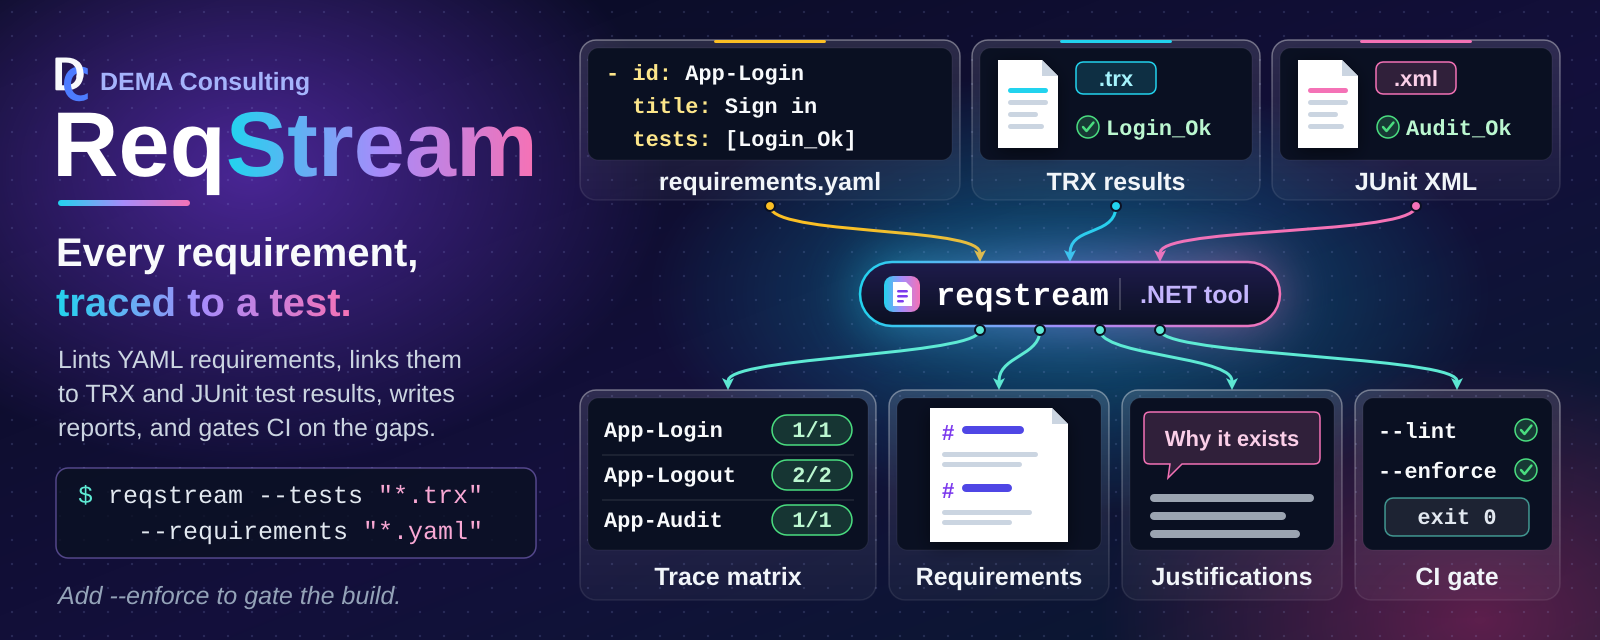
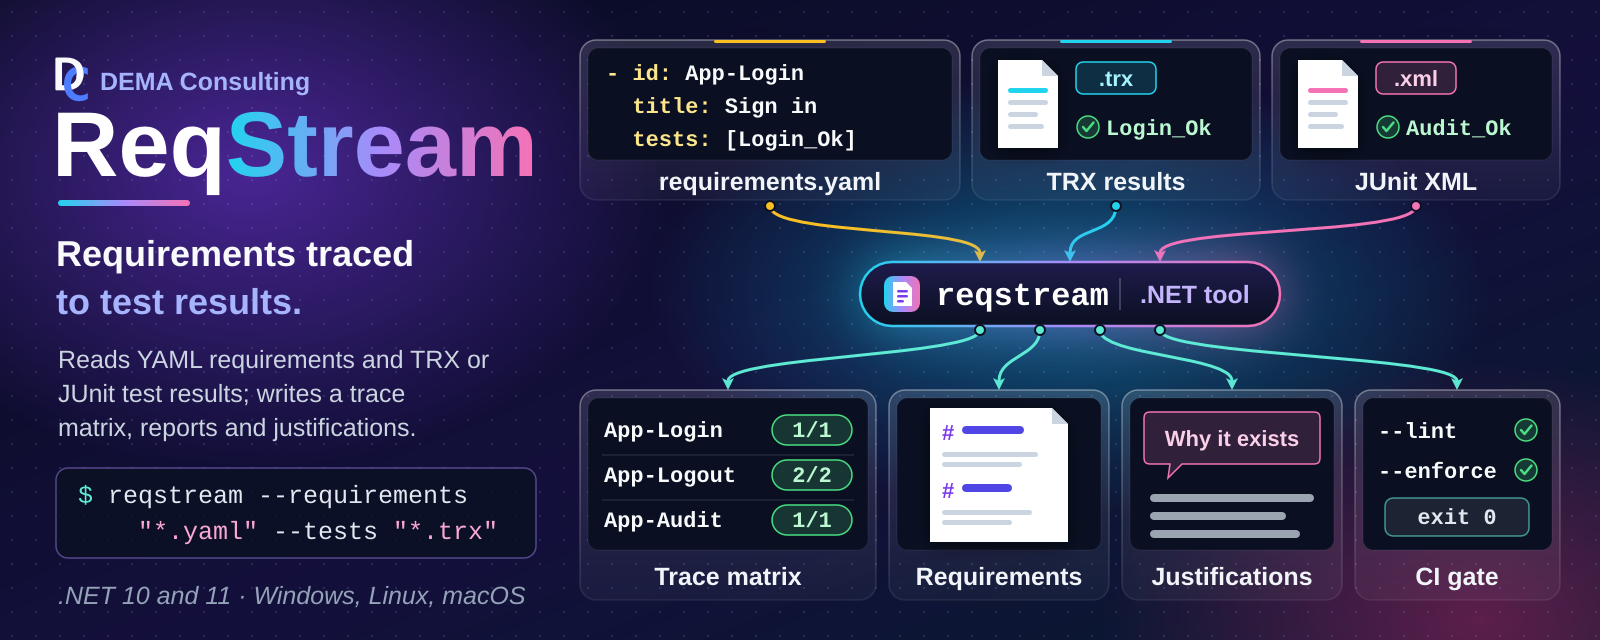
Sync agents/template and calm the README hero (#246)
* Sync shared agents, skills, and standards from Agents main

Brings in docdown skill wording (#60), orchestrator Pull Requests section and
planning Feasibility and Delivery step (#62), SysML2 one-package-per-file rule (#64),
and the AGENTS.md Project Scripts section (#62).

* Sync template: yamlfix comment handling and script CUSTOMIZATION headers

- .yamlfix.toml: comments_require_starting_space = false (template #61)
- build.ps1, lint.ps1, fix.ps1: CUSTOMIZATION header replaces the old
  MODIFICATION POLICY text (template #63); script behavior unchanged

* Calm the README hero and make it the H1

Plain tagline 'Requirements traced / to test results.' (solid colors, no
gradient), factual body, a real command, and a platform footnote; the hero
image is now the README H1 with the badges directly under it (template #66).

* Record the legacy SysML2 package layout as a standards exception

---------

diff --git a/.github/standards/sysml2-modeling.md b/.github/standards/sysml2-modeling.md
@@ -31,15 +31,15 @@ docs/sysml2/
 ├── common/
 │   └── software-items.sysml           # shared SoftwareItemMetadata::SoftwareInfo metadata def
 ├── model/
-│   ├── {system-name}.sysml            # system-level part def only (no subsystems/units inline)
+│   ├── {system-name}.sysml            # package {SystemName}; system-level part def only (no subsystems/units inline)
 │   ├── {system-name}/
-│   │   ├── {subsystem-name}.sysml     # subsystem part def; nests further for sub-subsystems
+│   │   ├── {subsystem-name}.sysml     # package {SystemName}_{SubsystemName}Subsystem; nests further for sub-subsystems
 │   │   └── {subsystem-name}/
-│   │       └── {unit-name}.sysml      # one file per unit
-│   ├── ots.sysml                      # OTS dependency parts (optional; if OTS items exist)
-│   └── shared.sysml                   # Shared Package parts (optional; if Shared Packages exist)
+│   │       └── {unit-name}.sysml      # package {SystemName}_{UnitName}; one file per unit
+│   ├── ots.sysml                      # package OtsDependencies: OTS parts (optional; if OTS items exist)
+│   └── shared.sysml                   # package SharedPackages: Shared Package parts (optional; if Shared Packages exist)
 └── views/
-    └── design-views.sysml             # named view usages rendered for the design document
+    └── design-views.sysml             # package {RepoName}DesignViews; named view usages rendered for the design document
 ```
 
 `docs/sysml2/common/software-items.sysml` defines the `SoftwareItemMetadata::SoftwareInfo`
@@ -62,14 +62,42 @@ so no single alias name would generalize. Agents discover the system(s) present 
 `docs/sysml2/**/*.sysml`, not by assuming a fixed name.
 
 Always pass the full set of `.sysml` files (or an equivalent glob) to every `sysml2tools`
-invocation — the model spans multiple files and cross-references between them; files sharing
-the same `package Name { ... }` merge into one namespace automatically with no `import`
-required, as long as all files are passed together. As of `sysml2tools` 0.1.0-beta.5,
+invocation — the model spans multiple files and cross-references between them, and a
+reference only resolves when the file declaring its target is loaded (see Package Structure
+below for how files reference each other). As of `sysml2tools` 0.1.0-beta.5,
 `lint` and `render` both expand `*`/`**` glob patterns internally (recursing correctly into
 subdirectories), so pass a single **quoted** glob string (e.g. `'docs/sysml2/**/*.sysml'`)
 and let the tool resolve it — do not rely on the shell to expand it, and do not quote-strip
 the pattern before it reaches the tool. Quoting keeps the behavior identical across
 PowerShell and bash, since neither shell needs to (or reliably does) expand `**` itself.
+
+## Package Structure
+
+SysML v2 has no package merging: each file is its own root namespace, and two root packages
+with the same name are duplicate members of the global namespace (the OMG Pilot
+Implementation reports "Duplicate of other owned member name" for each, and references across
+the halves do not resolve). A model that only loads because a tool is lenient is not portable,
+so:
+
+- Each `.sysml` file declares **exactly one uniquely named package**, and a package is never
+  declared (or "reopened") in more than one file.
+- Name each package from its place in the hierarchy, joined with an underscore:
+  `{SystemName}` for the system file, `{SystemName}_{SubsystemName}Subsystem` for a subsystem
+  (including a nested sub-subsystem, which is not prefixed with its parent subsystem), and
+  `{SystemName}_{UnitName}` for a unit. The system prefix keeps names unique across systems.
+  The shared files use `OtsDependencies` and `SharedPackages`, and the single views file uses
+  one repository-level package, `{RepoName}DesignViews` (not one per system).
+- Package names must be unique **repository-wide**. The short forms above are the default;
+  when one would collide (two `Storage` subsystems in different branches, or two units named
+  `Cache` in different subsystems), qualify it with the owning subsystem path, for example
+  `{SystemName}_{SubsystemName}_{UnitName}` (`Acme_Ingest_Cache` and `Acme_Query_Cache`).
+- Reference other files with an explicit `private import {PackageName}::*;` (a system or
+  subsystem file imports the package of each direct member so its `part` usages resolve; every
+  file that applies `SoftwareInfo` imports `SoftwareItemMetadata::*`).
+- Where an import would form a cycle (for example a unit that depends on a package that
+  already imports it), or for a one-off reference into another system, use the qualified name
+  instead, e.g. `dependency {UnitName} to {SystemName}_{OtherUnit}::{OtherUnit};`.
+  Import cycles raise a lint warning; qualified references do not.
 
 ## Model Content
 
@@ -174,11 +202,13 @@ Views control what gets rendered into diagrams for the design document. Use name
 **usages** (not `view def` **definitions**) — `expose` is only valid inside a usage:
 
 ```sysml
-package {SystemName} {
+package {RepoName}DesignViews {
     private import StandardViewDefinitions::*;
+    private import {SystemName}::*;
+    private import {SystemName}_{SubsystemName}Subsystem::*;
 
     view SoftwareStructureView : InterconnectionView {
-        expose {SystemName}::**;     // all members, recursively: system + subsystems + units
+        expose {SystemName}::{SystemName}System::**;  // system part def, recursively: subsystems + units
     }
 
     view {SystemName}View {
@@ -186,10 +216,12 @@ package {SystemName} {
     }
 
     view {SubsystemName}View {
-        expose {SubsystemName};      // one subsystem def only
+        expose {SubsystemName}Subsystem;      // one subsystem def only
     }
 }
 ```
+
+Views import (or qualify) every package whose members they expose, like any other file.
 
 Type `SoftwareStructureView` by a standard view definition from the SysML v2 Views library
 (`GeneralView`, `InterconnectionView`, ...; requires `sysml2tools` 0.3.0-beta.3+). The view
@@ -223,25 +255,27 @@ There is no dedicated `DependencyView`/`{SubsystemName}DependencyView` diagram c
 above), not rendered.
 
 When a repository has multiple systems, type `SoftwareStructureView` by `GeneralView`,
-expose each system package's members, and filter out documentation so the overview stays
-readable — the general view draws one package frame per system, while an interconnection
-view places all systems in a single row:
+expose each system's part def (and each subsystem's, by qualified name), and filter out
+documentation so the overview stays readable — the general view draws one package frame per
+system, while an interconnection view places all systems in a single row:
 
 ```sysml
 package {RepoName}DesignViews {
     private import StandardViewDefinitions::*;
 
     view SoftwareStructureView : GeneralView {
-        expose {SystemNameA}::**;
-        expose {SystemNameB}::**;
-        filter not @SysML::Documentation;
+        expose {SystemNameA}::{SystemNameA}System;
+        expose {SystemNameA}_{SubsystemName}Subsystem::{SubsystemName}Subsystem;
+        expose {SystemNameB}::{SystemNameB}System;
+        filter not (@SysML::Documentation);
     }
 }
 ```
 
 Documentation (`doc`) is exposed with its owner and drawn as a `doc` compartment unless a
-view filters it out; use `filter not @SysML::Documentation;` wherever doc text would clutter
-a diagram.
+view filters it out; use `filter not (@SysML::Documentation);` wherever doc text would clutter
+a diagram. The parentheses are required: the SysML v2 grammar does not accept the unparenthesized
+`filter not @SysML::Documentation;`.
 
 ## Diagram Embedding
 
@@ -313,6 +347,9 @@ sync.
   `sourceFiles`; the purpose statement appears only in the `doc` comment, never in `SoftwareInfo`
 - [ ] `docs/sysml2/views/design-views.sysml` uses `view Name { expose ...; }` usages, not
   `view def` definitions
+- [ ] Each `.sysml` file declares exactly one uniquely named package (never the same package
+  in two files), named per Package Structure, and references other files through
+  `private import` or qualified names (qualified where an import would form a cycle)
 - [ ] View names follow the `SoftwareStructureView` / `{SystemName}View` /
   `{SubsystemName}View` convention (no dedicated `DependencyView`)
 - [ ] Each Unit's real collaborators are captured as `dependency A to B;` statements, and each

diff --git a/.github/skills/sysml2tools-query/SKILL.md b/.github/skills/sysml2tools-query/SKILL.md
@@ -21,11 +21,15 @@ dotnet tool restore
 ## Model files
 
 - `docs/sysml2/model/{system-name}.sysml` — system-level `part def` only (no subsystems/units
-  inline). A repository may contain more than one system.
+  inline), in package `{SystemName}`. A repository may contain more than one system.
 - `docs/sysml2/model/{system-name}/{subsystem-name}.sysml` and
   `docs/sysml2/model/{system-name}/{subsystem-name}/{unit-name}.sysml` — one file per
   Subsystem/Unit, nested to mirror the same folder depth as that item's companion
-  `docs/design/`, `docs/reqstream/`, and `docs/verification/` files.
+  `docs/design/`, `docs/reqstream/`, and `docs/verification/` files. Each declares its own
+  uniquely named package; by default `{SystemName}_{SubsystemName}Subsystem` or
+  `{SystemName}_{UnitName}`, qualified with the subsystem path
+  (`{SystemName}_{SubsystemName}_{UnitName}`) when the short name would collide. An element's
+  qualified name is e.g. `{SystemName}_{UnitName}::{UnitName}`.
 - `docs/sysml2/model/ots.sysml` — off-the-shelf (OTS) dependency parts (present when OTS items
   exist).
 - `docs/sysml2/model/shared.sysml` — Shared Package parts (present when Shared Package items
@@ -35,9 +39,10 @@ dotnet tool restore
   useful to see how diagrams are scoped.
 
 Always pass all `.sysml` files (or a glob covering them) to every `sysml2tools`
-invocation — the model spans multiple files and cross-references between them; files that
-reopen the same `package Name { ... }` from different files merge into one namespace
-automatically, no `import` required. As of `sysml2tools` 0.1.0-beta.5, every subcommand
+invocation — the model spans multiple files and cross-references between them (each file
+declares one uniquely named package and references others through `import` or qualified
+names; same-named packages in different files are not merged), so every file a reference
+points at must be loaded. As of `sysml2tools` 0.1.0-beta.5, every subcommand
 (`lint`, `render`, `query`) expands `*`/`**` glob patterns internally and recurses
 correctly — pass a single **quoted** glob string and let the tool resolve it, rather than
 relying on the shell (quoting works identically in both PowerShell and bash):
@@ -57,7 +62,7 @@ summary line, so one query gets you every artifact location for that item withou
 the source tree:
 
 ```pwsh
-dotnet sysml2tools query describe -e {SystemName}::{UnitName} 'docs/sysml2/**/*.sysml'
+dotnet sysml2tools query describe -e {SystemName}_{UnitName}::{UnitName} 'docs/sysml2/**/*.sysml'
 ```
 
 ```text

diff --git a/AGENTS.md b/AGENTS.md
@@ -159,10 +159,31 @@ requires it and the modification preserves the documented design intent:
 
 - `.reviewmark.yaml`, `.textlint.yaml`, `.editorconfig`
 - `.lintmark.yaml`, `.yamllint.yaml`
-- `requirements.yaml`, `fix.ps1`, `lint.ps1`
+- `requirements.yaml`
+
+# Project Scripts
+
+`build.ps1`, `lint.ps1`, and `fix.ps1` belong to the project: extend them as it grows. Add project-specific
+steps, update tool versions, and add optional parameters that focus a run (for example one library in a
+multi-library repository, or headless tests without GUI automation). Two rules keep them trustworthy:
+
+- Run with no arguments, each script still does its full job (CI and the agents rely on that); slow or
+  environment-dependent test tiers may be opt-in switches of `build.ps1`.
+- Never remove or weaken a check to make lint or tests pass.
 
 # Continuous Compliance Overview
 
 This repository follows the [Continuous Compliance](https://github.com/demaconsulting/ContinuousCompliance)
 approach. Tools: **ReqStream** (requirements traceability), **ReviewMark** (file review enforcement),
 **BuildMark** (tool versions), **VersionMark** (version tracking).
+
+# Repository-Specific Standards Exceptions
+
+## SysML2 package structure (legacy layout, migration pending)
+
+The model under `docs/sysml2/` still uses the earlier layout: `package ReqStream` is reopened in 19 model files
+(`model/reqstream.sysml` and every file under `model/reqstream/`) and in `views/design-views.sysml` (not
+`ReqStreamDesignViews`); `model/ots.sysml` uses `OtsDependencies` and there is no shared-package file. The Package
+Structure rules in `sysml2-modeling.md` and the matching qualified-name examples in the `sysml2tools-query` skill apply
+once the model is migrated in a dedicated PR; until then query and extend the model using the existing package names
+and do not partially restructure it.

diff --git a/README.md b/README.md
@@ -1,4 +1,4 @@
-# ReqStream
+# ![ReqStream: Requirements traced to test results. Reads YAML requirements and TRX or JUnit test results; writes a trace matrix, reports and justifications. Shown with the command 'reqstream --requirements "*.yaml" --tests "*.trx"' and the note '.NET 10 and 11, Windows, Linux, macOS'. A requirements.yaml with a requirement id, title, and linked test, TRX test results, and JUnit XML test results flow into the reqstream .NET tool, and arrows lead out to a trace matrix of requirements with their passing tests, a Markdown requirements report, a justifications document, and a CI gate where the --lint and --enforce checks pass with exit 0][hero]
 
 [![GitHub forks][forks-shield]][forks-url]
 [![GitHub stars][stars-shield]][stars-url]
@@ -8,12 +8,6 @@
 [![Quality Gate][quality-gate-shield]][quality-gate-url]
 [![Security][security-shield]][security-url]
 [![NuGet][nuget-shield]][nuget-url]
-
-![ReqStream banner: the ReqStream name with the tagline 'Every requirement, traced to a test.' and the command
-reqstream --tests "*.trx" --requirements "*.yaml". A requirements.yaml with a requirement id, title, and linked test,
-TRX test results, and JUnit XML test results flow on curved arrows into the reqstream .NET tool, and arrows lead out
-to a trace matrix of requirements with their passing tests, a Markdown requirements report, a justifications document,
-and a CI gate where the --lint and --enforce checks pass with exit 0][hero]
 
 ## Overview
 

diff --git a/.github/agents/orchestrator.agent.md b/.github/agents/orchestrator.agent.md
@@ -48,3 +48,16 @@ briefly, what you loaded.
   let the user answer in their own words. Do not batch decisions into structured question forms (such as an
   `ask_user` tool); they strip away the context the user needs to decide and turn the session into a
   questionnaire.
+
+# Pull Requests (MANDATORY)
+
+Aim for pull requests that each merge one complete, useful change that could be cherry-picked on its own.
+
+- Before starting work that could span more than one pull request, propose the grouping and let the user
+  decide. The user may split it, or combine several small requests into one pull request.
+- When splitting, split by behavior, not by layer or file type: each part carries its own code, tests,
+  requirements, and docs, builds and passes alone, and leaves no stubs or dead code for a later part.
+- Deliver parts in order: start the next part from main only after the previous one merges.
+- Review fixes, lint fixes, and follow-ups go into the open pull request they belong to, not a new one.
+- Sub-agents work on the agreed branch and do not open pull requests; you decide when it is complete.
+- Keep mechanical churn (formatting, renames, generated files) in its own commit so reviewers can skip it.

diff --git a/.github/agents/planning.agent.md b/.github/agents/planning.agent.md
@@ -52,10 +52,13 @@ Repeat up to 2 more times, stopping when the plan is stable.
 
 List up to 5 risks with a brief mitigation for each.
 
-## Step 6 — Feasibility Assessment
+## Step 6 — Feasibility and Delivery
 
 State whether this can be implemented in a single development pass and any
-preconditions that affect feasibility.
+preconditions that affect feasibility. Propose how the work groups into pull
+requests: one complete, useful change per pull request where possible; if it
+should be split, list ordered parts that are split by behavior (not by layer or
+file type) and each build, pass, and deliver something on their own.
 
 ## Step 7 — Recommendation
 
@@ -108,9 +111,12 @@ Then respond to the caller with ONLY the lean structured summary below.
 
 1. **[severity]** {risk} — {mitigation}
 
-## Feasibility Assessment
+## Feasibility and Delivery
 
 {Single-pass or not, and why. Any preconditions.}
+
+{Proposed pull-request grouping: one pull request, or ordered parts split by behavior,
+each with what it delivers on its own.}
 
 ## Unknowns
 
